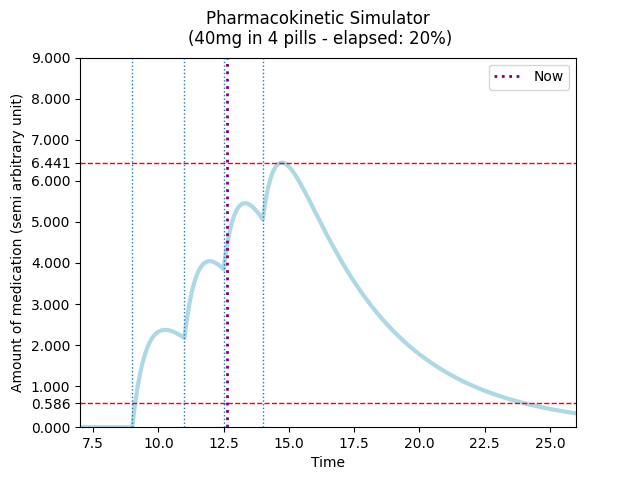
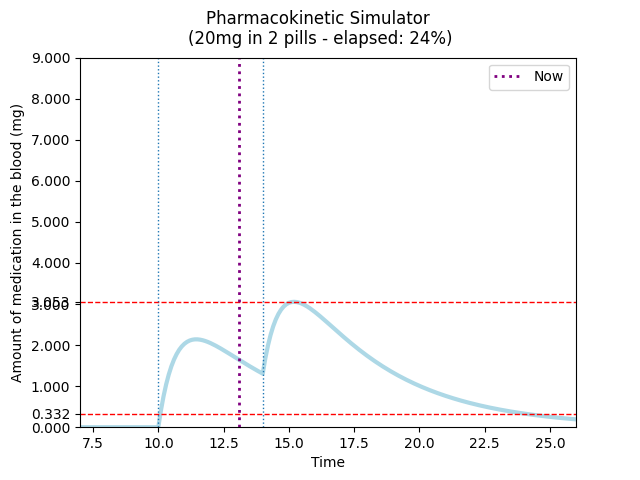
refactored

diff --git a/med simulator v2.py b/med simulator v2.py
@@ -12,8 +12,8 @@ def pharmacokinetic_simulator(
         mg_per_pill=10,
         hour_taken=[9, 11, 12, 14],
         bioavailability=0.4,
-        abs_half_life=2.5,
-        elim_half_life=0.4,
+        abs_half_life=0.5,
+        elim_half_life=2.5,
         plot_hour_bounds=[7, 26],
         show_plot=True,
         ):
@@ -33,15 +33,13 @@ def pharmacokinetic_simulator(
     bioavailability: float, default 0.4
         expected bioavailability. Literature indicates 0.4 to be a plausible
         guess. Increase if you tend take the methylphenidate during the meal,
-        especially if rich in fat.
-    abs_half_life: float, default 2.5
-        absorption half life in hours, approximated to be 2.5 from the
-        literature
-    elim_half_life: float, default 0.4
-        elimination half life in hour, empirically determined to be 0.4.
-        I think it is a coincidence that 1/2.5 = 0.4.
-        Initially computed to comeup within 1h13 (about the average between
-        1h (during meal) and 1h30 (on empty stomach)).
+        especially if rich in fat. The literature indicates 0.1 to 0.5 with
+        a mean at 0.3.
+    abs_half_life: float, default 0.5
+        absorption half life in hours, empirically determined. It means that
+        in "value * 60" minutes you have 50% of the drug in your blood.
+    elim_half_life: float, default 3
+        elimination half life in hour, 2 to 3 according to the literature.
     plot_hour_bounds: list of numers, default [7, 26]
         a list with the first and last hour of the plot to display
     show_plot: bool or str, default True
@@ -58,8 +56,8 @@ def pharmacokinetic_simulator(
                         "You have to put numbers inside hour_taken!")
     assert isinstance(mg_per_pill, (int, float)), "mg_per_pill is not a number"
     assert isinstance(bioavailability, (int, float)), "bioabailability is not a number"
-    assert isinstance(abs_half_life, float), "wrong type for elim_half_life"
-    assert isinstance(elim_half_life, float), "wrong type for elim_half_life"
+    assert isinstance(abs_half_life, (int, float)), "wrong type for elim_half_life"
+    assert isinstance(elim_half_life, (int, float)), "wrong type for elim_half_life"
     assert isinstance(plot_hour_bounds, list), "plot_hour_bounds is not a list"
     assert len(plot_hour_bounds) == 2, "invalid length of plot_hour_bounds"
     assert len([x
@@ -74,7 +72,7 @@ def pharmacokinetic_simulator(
     total_amount = len(hour_taken) * mg_per_pill
 
     # create the time axis
-    x = np.fromiter(
+    t = np.fromiter(
             (round(i * time_step, 1
                 )
                 for i in range(int(plot_hour_bounds[1] / time_step) + 1)
@@ -82,14 +80,14 @@ def pharmacokinetic_simulator(
 
     # create the typical absorption curve values
     alpha = np.log(2) / abs_half_life
+    absorption_exp = dose_per_pill * np.exp(-alpha * t)
     beta = np.log(2) / elim_half_life
-    absorption_exp = dose_per_pill * np.exp(-alpha * x)
-    elimination_exp = dose_per_pill * np.exp(-beta * x)
-    curve_template = absorption_exp - elimination_exp
+    elimination_exp = dose_per_pill * np.exp(-beta * t)
+    curve_template = -absorption_exp + elimination_exp
 
     # make a long string of zero that will be summed with the offset curve
     # values
-    y = np.fromiter((0 for i in x), dtype=float)
+    y = np.fromiter((0 for i in t), dtype=float)
     for i, h in enumerate(hour_taken):
         limit = len(y) - int(h * 1 / time_step)
         y[int(h * 1/time_step):] += curve_template[:limit]
@@ -102,14 +100,18 @@ def pharmacokinetic_simulator(
     elapsed = round(sum(y[:int(time * 1 / time_step)]) / sum(y) * 100, 2)
     print(f"Elapsed portion: {elapsed}%")
 
+    # midnight value
+    midnight_value = y[int(24 * 1 / time_step)]
+    print(f"Value at midnight: {round(midnight_value, 2)}")
+
     if show_plot is False:
         print("Not creating plot, finished.")
 
     # create plot
-    y_max = 1.1 * max(y)
+    y_max = max(1.1 * max(y), 5)
     fig = plt.figure()
     ax = fig.add_subplot(111)
-    ax.plot(x, y, color='lightblue', linewidth=3)
+    ax.plot(t, y, color='lightblue', linewidth=3)
     ax.set(xlim=[plot_hour_bounds[0], plot_hour_bounds[1]],
            ylim=[0, y_max])
     plotTitle = (f"Pharmacokinetic Simulator \n({total_amount}mg "
@@ -119,7 +121,7 @@ def pharmacokinetic_simulator(
 
     # axis
     ax.set(xlabel='Time',
-           ylabel='Amount of medication (semi arbitrary unit)')
+           ylabel='Amount of medication in the blood (mg)')
     xticks = []
     for i in range(0, 10):
         xticks.append(i)

diff --git a/README.md b/README.md
@@ -6,7 +6,8 @@ It can readily be adapted to any immediate release drug if you have the right ph
 
 2 versions exist:
 * A first one in R using the package `Shiny` to create interactive plots. To see examples of it running, please look at the gifs below.
-* A second and much improved version using python and not interactive.
+* A second and much improved version using python and not interactive but with more accurate parameters and cleaner code.
+
 
 *keywords : ADHD, ADD, attention deficit, hyperactivity*
 
